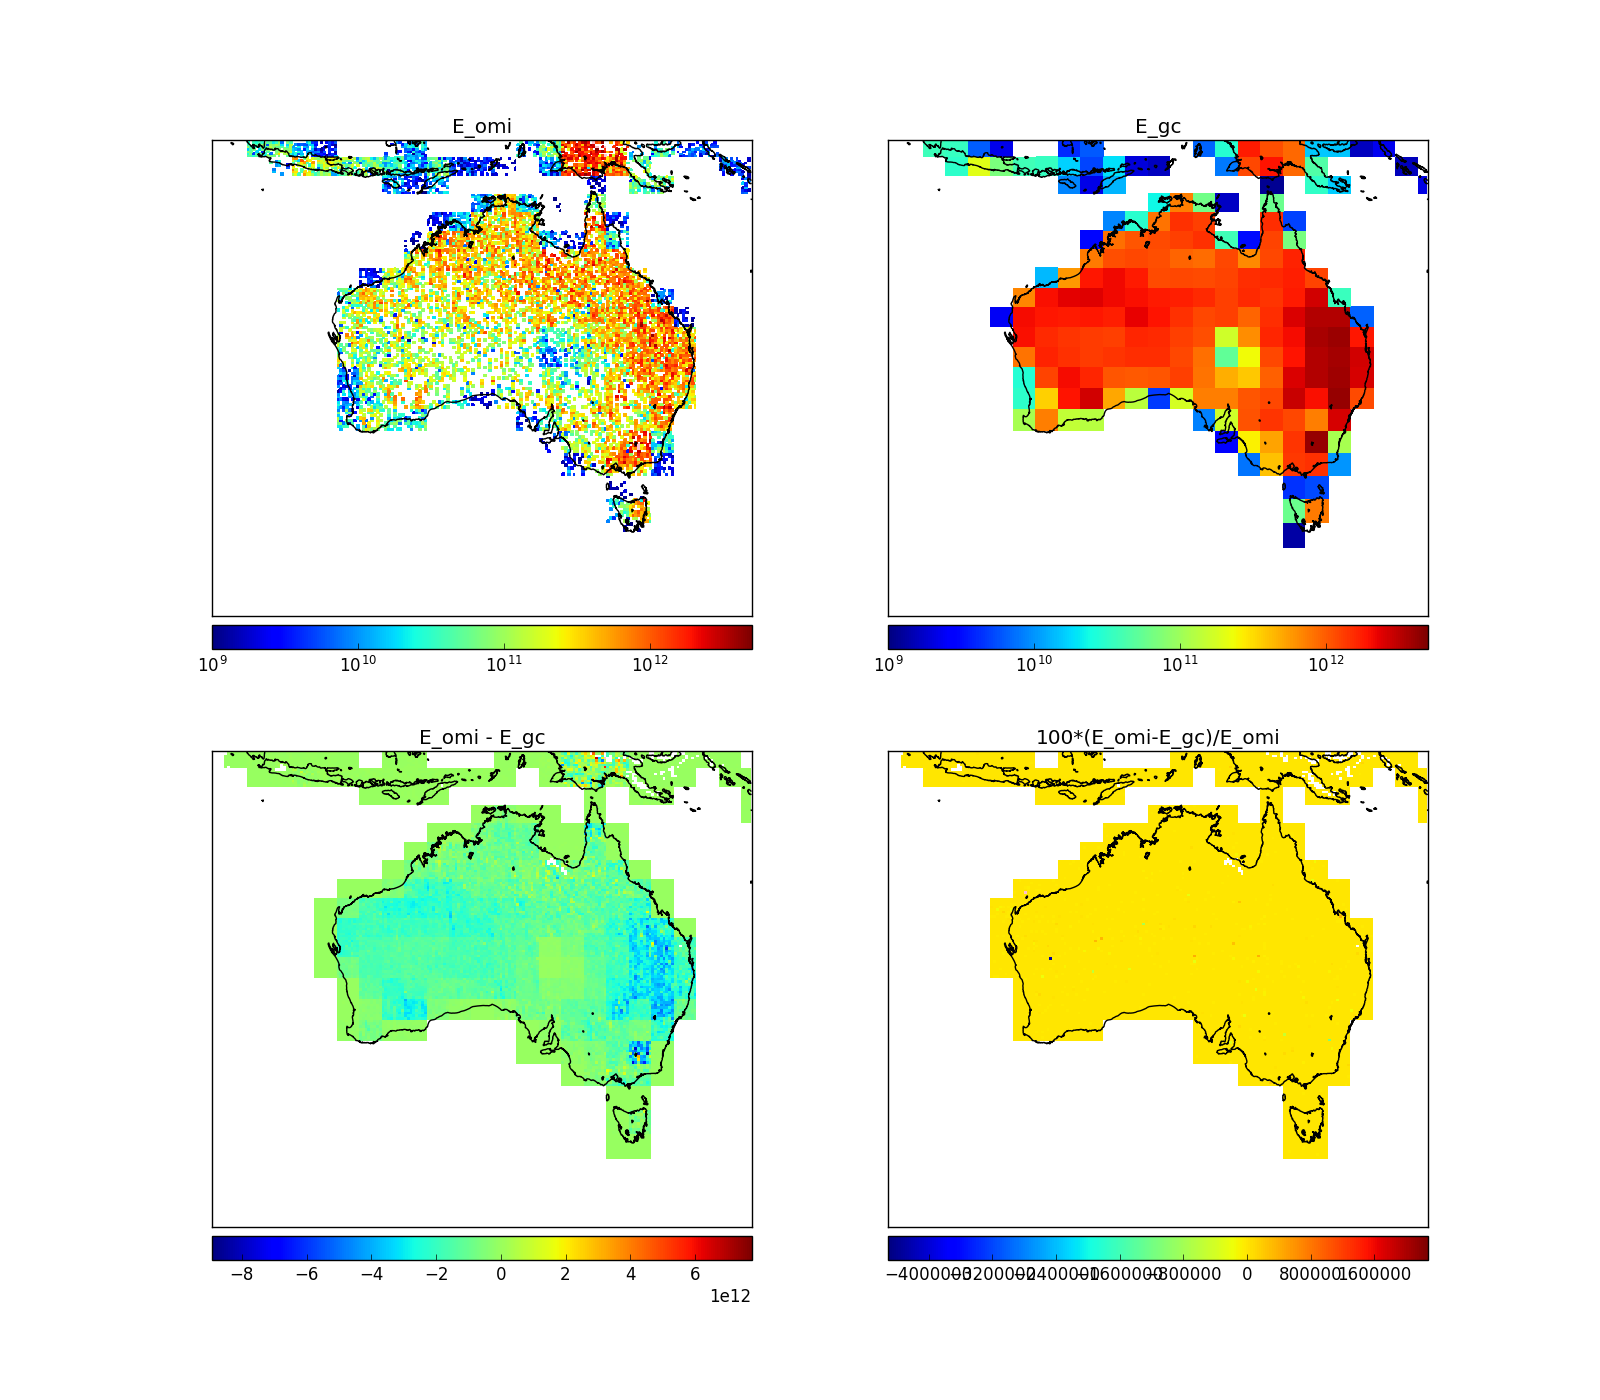
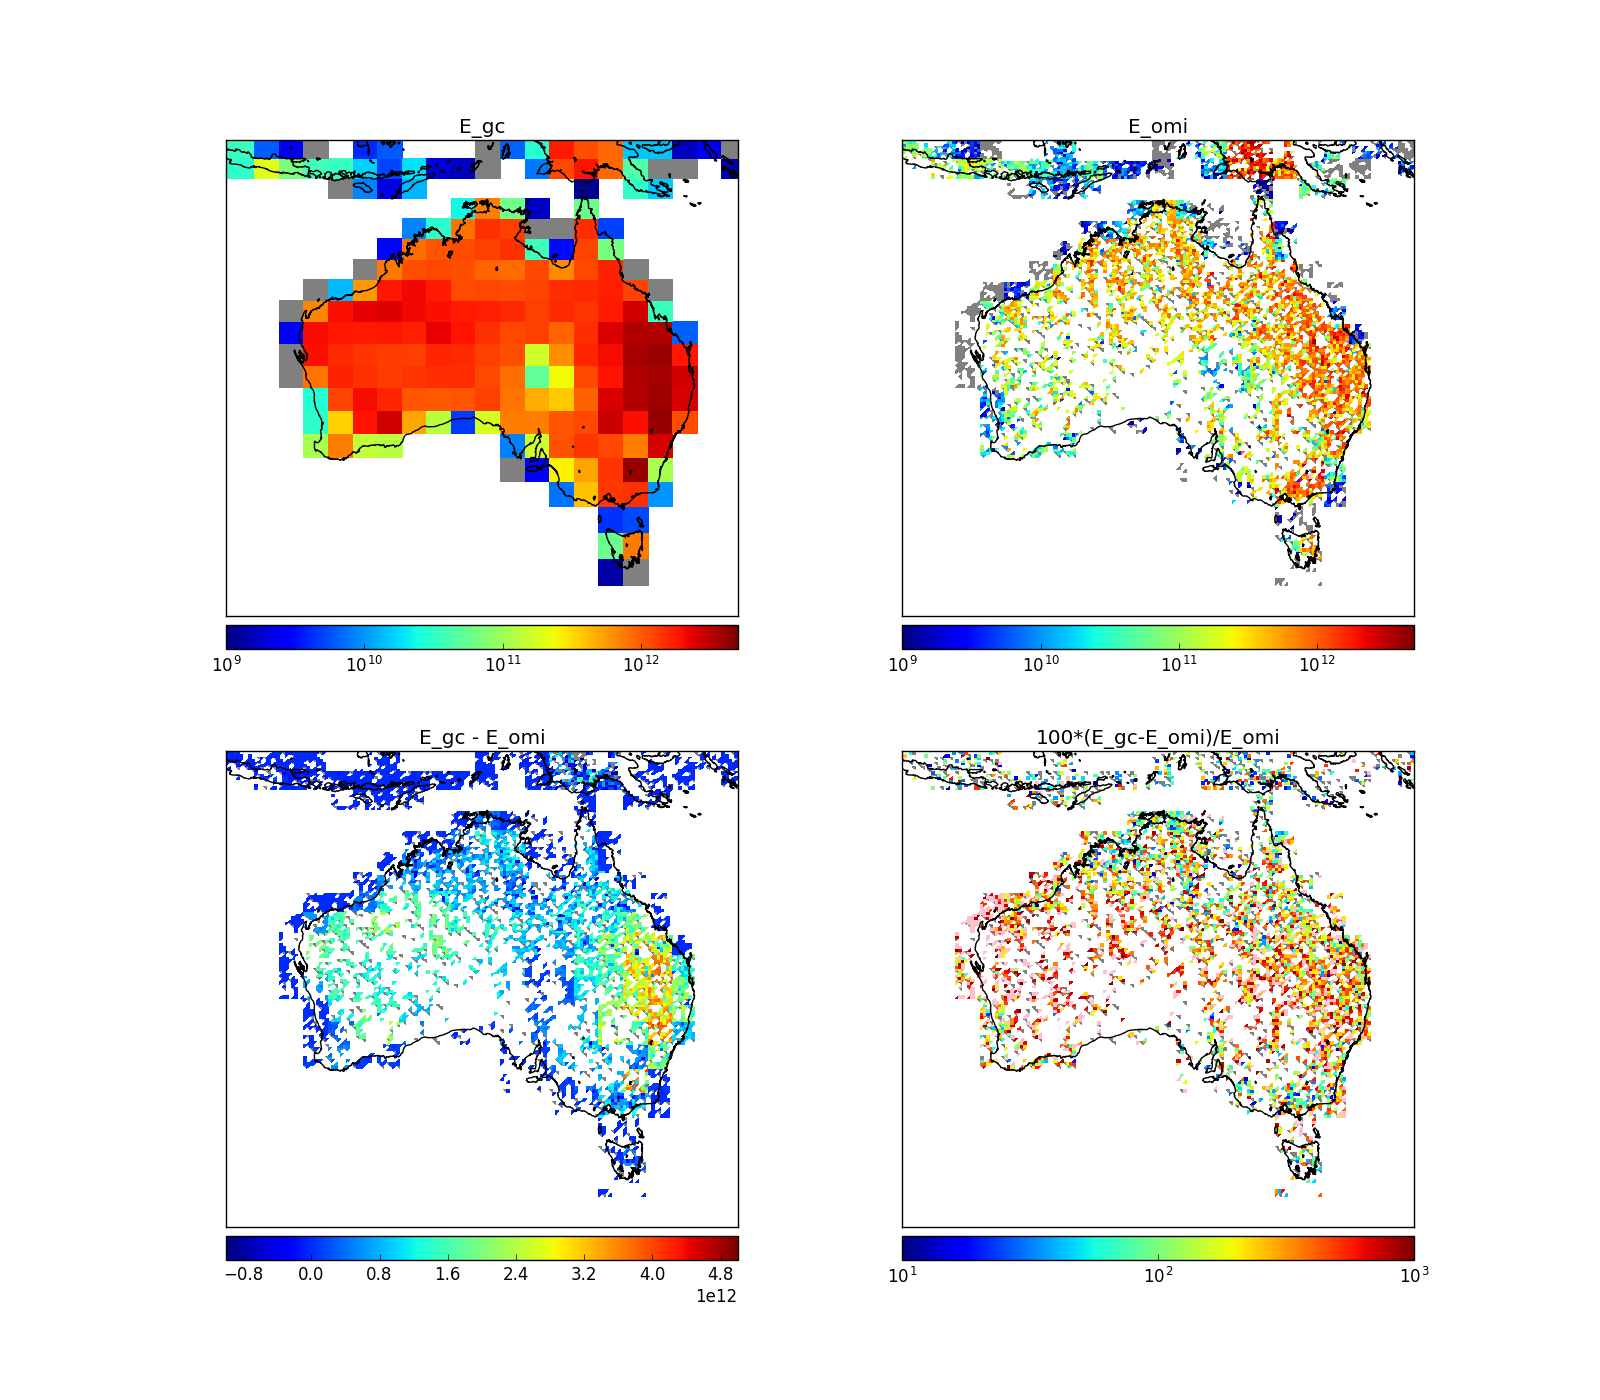
Updated comparison and added low resolution plot

diff --git a/Inversion.py b/Inversion.py
@@ -56,7 +56,7 @@ def Yield(H, k_H, I, k_I):
     #Return the yields
     return Y
 
-def Emissions(month=datetime(2005,1,1), GC = None, OMI = None, region=pp.__AUSREGION__):
+def Emissions(month=datetime(2005,1,1), GC = None, OMI = None, region=pp.__AUSREGION__, ReduceOmiRes=0):
     '''
         Determine emissions of isoprene for a particular month
         1) Calculate Yield and background for a particular month
@@ -74,20 +74,30 @@ def Emissions(month=datetime(2005,1,1), GC = None, OMI = None, region=pp.__AUSRE
     # model slope between HCHO and E_isop:
     S_model=GC.model_yield(region)
 
+    # get OMI corrected vertical columns
+    hcho=OMI.VCC
+    lats,lons=OMI.latitude,OMI.longitude
+    if ReduceOmiRes > 0 :
+        omilow=OMI.lower_resolution('VCC',factor=ReduceOmiRes)
+        hcho=omilow['VCC']
+        lats,lons=omilow['lats'], omilow['lons']
+
     # subset over region of interest
-    lati, loni = pp.lat_lon_range(OMI.latitude, OMI.longitude, region)
+    lati, loni = pp.lat_lon_range(lats, lons, region)
     #inds = OMI.region_subset(region=region, maskocean=False, maskland=False)
-    lats, lons = OMI.latitude[lati], OMI.longitude[loni]
-    hcho    = OMI.VCC[lati,:]
+    lats, lons = lats[lati], lons[loni]
+    hcho    = hcho[lati,:]
     hcho    = hcho[:,loni]
     BG      = OMI.background_HCHO()
+
 
     ## Calculate Emissions from these
     ##
 
     # map GC slope onto same lats/lons as OMI
-    #print(np.shape(S_model['slope']))
-    #print(np.nanmean(S_model['slope']))
+    print("slope shape, hcho shape:")
+    print(np.shape(S_model['slope']))
+    print(np.shape(hcho))
 
     GC_slope=pp.regrid(S_model['slope'], S_model['lats'],S_model['lons'],
                     lats,lons)
@@ -120,33 +130,52 @@ def check_against_MEGAN(month=datetime(2005,1,1)):
     region=pp.__AUSREGION__
 
     E_new=Emissions(month=month, GC=GC, OMI=OMI, region=region)
+    E_new_lowres=Emissions(month=month,GC=GC, OMI=OMI, region=region, ReduceOmiRes=8)
     E_GC=GC.get_field(keys=['E_isop'], region=region)
     E_GC['E_isop'] = np.mean(E_GC['E_isop'],axis=2) # average of the monthly values
     for k,v in E_GC.items():
         print ((k, v.shape))
         print(np.nanmean(v))
+
     Eomi=E_new['E_isop']
     Egc=E_GC['E_isop']
     latsgc=E_GC['lats']
     lonsgc=E_GC['lons']
     latsom=E_new['lats']
     lonsom=E_new['lons']
-    vmin,vmax=1e9,5e12
-    pp.createmap(Eomi, latsom, lonsom, aus=True, vmin=vmin,vmax=vmax,
-                 linear=True, pname="Figs/GC/E_new_200501.png")
-    pp.createmap(Egc, latsgc, lonsgc, aus=True, vmin=vmin,vmax=vmax,
-                 linear=True, pname="Figs/GC/E_GC_200501.png")
+    for l,e in zip(['E_omi','E_gc'],[Eomi,Egc]):
+        print("%s: %s"%(l,str(e.shape)))
+        print("Has %d nans"%np.sum(np.isnan(e)))
+        print("Has %d negatives"%np.sum(e<0))
 
-    arrs=[Eomi,Egc]
-    lats=[latsom,latsgc]
-    lons=[lonsom,lonsgc]
-    titles=['E_omi','E_gc']
+    vmin,vmax=1e9,5e12 # map min and max
+    amin,amax=-1e12, 5e12 # absolute diff min and max
+    rmin,rmax=10, 1000 # relative difference min and max
+    #pp.createmap(Eomi, latsom, lonsom, aus=True, vmin=vmin,vmax=vmax,
+    #             linear=True, pname="Figs/GC/E_new_200501.png")
+    #pp.createmap(Egc, latsgc, lonsgc, aus=True, vmin=vmin,vmax=vmax,
+    #             linear=True, pname="Figs/GC/E_GC_200501.png")
+
+    Eomi_nn = np.copy(Eomi)
+    Eomi_nn[Eomi_nn < 0] = np.NaN
+    arrs=[Egc, Eomi_nn]
+    lats=[latsgc, latsom]
+    lons=[lonsgc, lonsom]
+    titles=['E_gc', 'E_omi']
     pp.compare_maps(arrs,lats,lons,pname='Figs/GC/E_Comparison.png',
-                    titles=titles,vmin=vmin,vmax=vmax,linear=False)
-
+                    titles=titles,vmin=vmin,vmax=vmax,linear=False,
+                    rlinear=False, amin=amin,amax=amax,rmin=rmin,rmax=rmax)
+    # again with degraded omi emissions:
+    arrs[1]=E_new_lowres['E_isop']
+    lats[1],lons[1]=E_new_lowres['lats'],E_new_lowres['lats']
+    pp.compare_maps(arrs,lats,lons,pname='Figs/GC/E_Comparison_lowres.png',
+                    titles=titles,vmin=vmin,vmax=vmax,linear=False,
+                    rlinear=False, amin=amin,amax=amax,rmin=rmin,rmax=rmax)
+    pp.compare_maps
     print("New estimate: %.2e"%np.nanmean(Eomi))
     print("Old estimate: %.2e"%np.nanmean(Egc))
-
+    print("New estimate (no negatives): %.2e"%np.nanmean(Eomi_nn))
+    print("New estimate (low resolution): %.2e"%np.nanmean(E_new_lowres['E_isop']))
     # corellation
 
     #Convert both arrays to same dimensions for correllation?
@@ -157,4 +186,5 @@ if __name__=='__main__':
     # check the regridding function:
     check_regridding()
     # try running
-    #month=datetime(2005,1,1)
+    month=datetime(2005,1,1)
+    check_against_MEGAN(month)

diff --git a/plotting.py b/plotting.py
@@ -19,7 +19,7 @@ from JesseRegression import RMA
 #import matplotlib.patches as mpatches
 
 # S W N E
-__AUSREGION__=[-50,100,-5,160,]
+__AUSREGION__=[-47,106,-5,158,]
 __GLOBALREGION__=[-80, -179, 80, 179]
 
 def InitMatplotlib():
@@ -60,15 +60,50 @@ def findvminmax(data,lats,lons,region):
     return vmin,vmax
 
 def regrid(data,lats,lons,newlats,newlons):
-    ''' Regrid a data array [lat,lon] onto [newlat,newlon] '''
+    '''
+    Regrid a data array [lat,lon] onto [newlat,newlon]
+    Assumes a regular grid!
+    '''
+    # if no resolution change then just throw back input
+    if len(newlats) == len(lats):
+        return data
 
-    mlons,mlats = np.meshgrid(lons,lats)
-    mnewlons,mnewlats = np.meshgrid(newlons,newlats)
+    # make into higher resolution
+    if len(newlats) > len(lats):
+        mlons,mlats = np.meshgrid(lons,lats)
+        mnewlons,mnewlats = np.meshgrid(newlons,newlats)
 
-    interp = griddata( (mlats.ravel(), mlons.ravel()), data.ravel(),
-                      (mnewlats, mnewlons), method='nearest')
+        interp = griddata( (mlats.ravel(), mlons.ravel()), data.ravel(),
+                          (mnewlats, mnewlons), method='nearest')
+        return interp
 
-    return interp
+    # transform to lower resolution
+    print("UNTESTED REGRIDDING")
+    avgbefore=np.nanmean(data)
+    if len(newlats) < len(lats):
+        ni, nj = len(newlats), len(newlons)
+        interp = np.zeros([ni,nj]) + np.NaN
+        for i in range(ni):
+            latlower=newlats[i]
+            if i == ni-1: # final lat
+                latupper=89.99
+            else:
+                latupper=newlats[i+1]
+            lat=lats[i]
+            irange = np.where((lat >= latlower) * (lat < latupper))[0]
+            for j in range(nj):
+                lonlower=newlons[j]
+                if j == nj-1: # final lat
+                    lonupper=179.99
+                else:
+                    lonupper=newlons[j+1]
+                lon=lons[i]
+                jrange = np.where((lon >= lonlower) * (lon < lonupper))
+                interp[i,j] = np.nanmean(data[irange,jrange])
+        assert np.isclose(avgbefore, np.nanmean(interp)), "Average changes too much!"
+        return interp
+    return None
+
 
 def regularbounds(x,fix=False):
     # Take a lat or lon array input and return the grid edges
@@ -105,6 +140,10 @@ def createmap(data,lats,lons, vmin=None, vmax=None, latlon=True,
         lonsnew,latsnew=np.meshgrid(lons,lats)
     else:
         latsnew,lonsnew=(lats,lons)
+    #force nan into any pixel with nan results, so color is not plotted there...
+    nans=np.isnan(data)
+    lonsnew[nans]=np.NaN
+    latsnew[nans]=np.NaN
 
     pcmeshargs={'latlon':latlon, 'vmin':vmin, 'vmax':vmax, 'clim':(vmin,vmax)}
     if not linear:
@@ -114,7 +153,7 @@ def createmap(data,lats,lons, vmin=None, vmax=None, latlon=True,
     #, latlon=latlon, vmin=vmin, vmax=vmax, norm=norm, clim=(vmin,vmax))
 
     # colour limits for contour mesh
-    cs.cmap.set_under('white')
+    cs.cmap.set_under('grey')
     cs.cmap.set_over('pink')
     cs.set_clim(vmin,vmax)
 
@@ -246,8 +285,8 @@ def plot_time_series(datetimes,values,ylabel=None,xlabel=None, pname=None, legen
 
 def compare_maps(datas,lats,lons,pname,titles=['A','B'], suptitle=None,
                  clabel=None, region=__AUSREGION__, vmin=None, vmax=None,
-                 rmin=-200.0, rmax=200.,
-                 linear=False, **pltargs):
+                 rmin=-200.0, rmax=200., amin=None, amax=None,
+                 linear=False, alinear=True, rlinear=True, **pltargs):
     '''
         Plot two maps and their relative and absolute differences
     '''
@@ -261,6 +300,10 @@ def compare_maps(datas,lats,lons,pname,titles=['A','B'], suptitle=None,
         vmax = np.nanmax(np.array(np.nanmax(A),np.nanmax(B)))
     if vmin is None:
         vmin = np.nanmin(np.array(np.nanmin(A),np.nanmin(B)))
+    if amax is None:
+        amax = vmax
+    if amin is None:
+        amin = -vmax
 
 
     # regrid the lower resolution data
@@ -286,10 +329,10 @@ def compare_maps(datas,lats,lons,pname,titles=['A','B'], suptitle=None,
     plt.sca(axes[1,0])
     title="%s - %s"%(titles[0],titles[1])
     createmap(A-B,lats,lons,region=region, clabel=clabel,
-             title=title, linear=True)
+             title=title, linear=alinear, vmin=amin, vmax=amax)
     plt.sca(axes[1,1])
-    title="100*(%s-%s)/%s"%(titles[0], titles[1], titles[0])
-    createmap((A-B)*100.0/A,lats, lons, region=region,linear=True,
+    title="100*(%s-%s)/%s"%(titles[0], titles[1], titles[1])
+    createmap((A-B)*100.0/B,lats, lons, region=region,linear=rlinear,
               vmin=rmin, vmax=rmax, clabel=clabel, title=title,
               suptitle=suptitle, pname=pname)
 

diff --git a/omhchorp.py b/omhchorp.py
@@ -174,6 +174,29 @@ class omhchorp:
         BG=np.nanmean(self.VCC[inds])
         return BG
 
+    def lower_resolution(self, key='VCC', factor=8):
+        ''' return data with resolution lowered by a factor of 8 (or input any integer)'''
+        # this can convert from 0.25 x 0.3125 to 2 x 2.5 resolutions
+        data=getattr(self,key)
+        ni = len(self.latitude)
+        nj = len(self.longitude)
+        counts=self.gridentries
+        dsum=data*counts
+        new_ni, new_nj = int(ni/factor),int(nj/factor)
+        newarr=np.zeros([new_ni,new_nj])+ np.NaN
+        newcounts=np.zeros([new_ni, new_nj])
+        for i in range(new_ni):
+            ir = np.arange(i*factor,i*factor+factor)
+            for j in range(new_nj):
+                jr = np.arange(j*factor, j*factor+factor)
+                newcounts[i,j] = np.nansum(counts[ir,jr])
+                newarr[i,j] = np.nansum(dsum[ir,jr])
+        newarr = newarr/newcounts
+        lats=self.latitude[0::factor]
+        lons=self.longitude[0::factor]
+        return {key:newarr, 'counts':newcounts, 'lats':lats, 'lons':lons}
+
+
 if __name__=='__main__':
 
     from datetime import datetime

diff --git a/GC_tests.py b/GC_tests.py
@@ -109,6 +109,7 @@ def isop_hcho_RMA(gc):
     '''
         compares isop emission [atom_C/cm2/s] against hcho vert_column [molec_hcho/cm2]
         as done in Palmer et al. 2003
+        Also plots sample of regressions over Australia
     '''
 
     # Retrieve data
